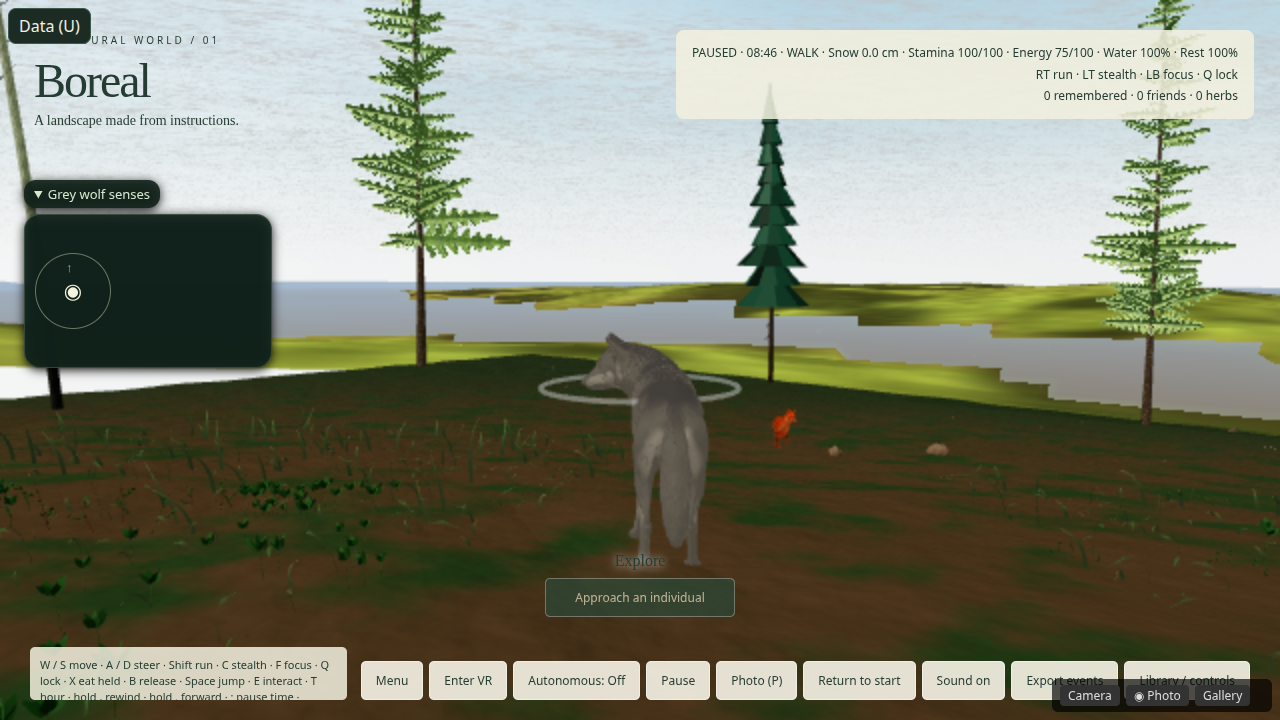
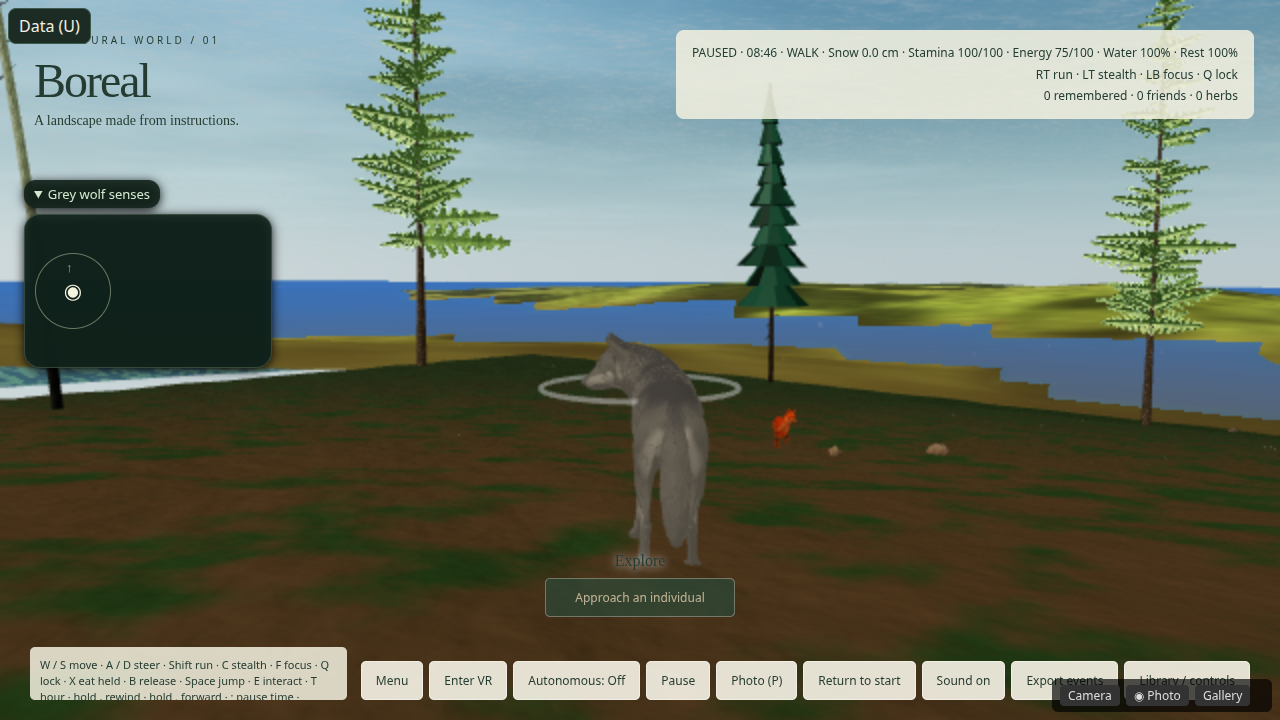
fix: fade the prairie skirt into the Preetham sky (T-0194)
The spawn grey band is the horizon skirt, not a lake mesh. The near
ring takes the chunk thatch and the outer ring fades by distance.
The sky is three.js Sky.js; its exposure scale stops the low sky
clipping white under ACES. Fog follows Koschmieder out to 6 km.

diff --git a/src/render/sky.ts b/src/render/sky.ts
@@ -87,7 +87,7 @@ void main() {
   vec3 c = tint * L * uTwGain; float a = uSunAlt < 0.0 ? 1.0 : night * 0.9;
   float sa = star * night * smoothstep(0.05, 0.3, elev);
   c = mix(c * a, vec3(0.92, 0.94, 1.0), sa); a = sa + a * (1.0 - sa);
-  float ca = cloud * mix(0.55, 0.9, core); // translucent veils leave Preetham blue; cores stay bright
+  float ca = cloud * mix(0.18, 0.40, core); // a clear morning keeps the Preetham blue; cores stay the bright ice
   c = col * ca + c * (1.0 - ca); a = ca + a * (1.0 - ca);
   gl_FragColor = vec4(c / max(a, 1e-4), a);
   #include <tonemapping_fragment>
@@ -100,9 +100,18 @@ export function createSky(scene: THREE.Scene) {
   const skyMat = sky.material as THREE.ShaderMaterial;
   skyMat.depthWrite = false;
   skyMat.fog = false;
+  // three.js Sky.js uses toneMappingExposure as the sky brightness. The ground stays at
+  // EXPOSURE.base 0.5 (core/light). This scale is that exposure knob for the sky alone:
+  // without it the Preetham radiance clips to white under ACES at 10° above the horizon.
+  skyMat.fragmentShader = skyMat.fragmentShader.replace(
+    'gl_FragColor = vec4( texColor, 1.0 );',
+    'vec3 graded = texColor * 0.29; float skyUp = clamp(normalize(vWorldPosition - cameraPosition).y, 0.0, 1.0); float low = 1.0 - smoothstep(0.04, 0.22, skyUp); graded.r *= mix(1.0, 0.78, low); graded.b += low * 0.06; gl_FragColor = vec4(graded, 1.0);',
+  );
   const u = sky.material.uniforms;
-  // Clearer air + stronger Rayleigh: deeper zenith blue and a whitened horizon (ground-sky audit vs flat cyan).
-  u.turbidity.value = 1.8; u.rayleigh.value = 3.0; u.mieCoefficient.value = .003; u.mieDirectionalG.value = .8;
+  // Preetham, Shirley and Smits 1999, via three.js examples/jsm/objects/Sky.js.
+  // Turbidity 2 is their clear day. Rayleigh 2 is the Sky.js example's blue without the extra
+  // brightness that ACES clips to white at about 10° above the horizon. Mie 0.005 is the example.
+  u.turbidity.value = 1.6; u.rayleigh.value = 3.2; u.mieCoefficient.value = .003; u.mieDirectionalG.value = .6;
   const clouds = new THREE.Mesh(new THREE.SphereGeometry(550, 32, 16, 0, Math.PI * 2, 0, Math.PI / 2), new THREE.ShaderMaterial({
     vertexShader: CLOUD_VERT, fragmentShader: CLOUD_FRAG, side: THREE.BackSide, transparent: true, depthWrite: false, fog: false,
     uniforms: { uTime: { value: 0 }, uSeed: { value: (WORLD_SEED % 997) * .37 }, uCover: { value: .47 }, uDrift: { value: new THREE.Vector2() }, uDay: { value: 1 }, uGolden: { value: 0 },
@@ -114,8 +123,10 @@ export function createSky(scene: THREE.Scene) {
   const moonLight = new THREE.DirectionalLight(0x9fb4e6, .35); scene.add(moonLight, moonLight.target);
   const hemi = new THREE.HemisphereLight(0xf1f5dd, 0x526753, 2.7); scene.add(hemi);
   const rimLight = new THREE.DirectionalLight(0xb7c4d6, 0.16); scene.add(rimLight, rimLight.target);
-  // Day fog leans sky-haze (pale blue-white) so the ground cut softens into the Preetham horizon instead of a grey slab.
-  const fogDay = new THREE.Color(0xd2dde8), fogGolden = new THREE.Color(0xd9a47c), fogNight = new THREE.Color(0x0d1422);
+  // Aerial perspective takes the Preetham horizon, a blue-grey, not the old low-chroma grey.
+  // That grey, fully mixed by 480 m, was the flat band on dry ground (Koschmieder 1924: the
+  // fade follows the visible range, it does not finish while the land is still close).
+  const fogDay = new THREE.Color(0x7eb4e4), fogGolden = new THREE.Color(0xd9a47c), fogNight = new THREE.Color(0x0d1422);
   const tmp = new THREE.Color(), tmpV = new THREE.Vector3(), keyDir = new THREE.Vector3();
   // Precipitation: one Points cloud around the camera (only drawn while it rains/snows), fall speed from Kessler V_t / snow ~1 m/s.
   const N = 1500, P = new Float32Array(N * 3), rnd = random(hash(`precip:${WORLD_SEED}`));
@@ -123,7 +134,7 @@ export function createSky(scene: THREE.Scene) {
   const precipGeo = new THREE.BufferGeometry(); precipGeo.setAttribute('position', new THREE.BufferAttribute(P, 3));
   const precipMat = new THREE.PointsMaterial({ color: 0xc8d4e0, size: .06, transparent: true, opacity: .6, depthWrite: false });
   const precip = new THREE.Points(precipGeo, precipMat); precip.frustumCulled = false; scene.add(precip);
-  const drift = new THREE.Vector2(); let lastTime = 0; const fogFar = (scene.fog as THREE.Fog).far, fogNear = (scene.fog as THREE.Fog).near;
+  const drift = new THREE.Vector2(); let lastTime = 0;
   return {
     sky, sunLight, hemi,
     /** Moves the sun and recolours sky, light and fog for the hour; the sky follows the camera. */
@@ -174,7 +185,9 @@ export function createSky(scene: THREE.Scene) {
         // 144.7·LWC^0.88 km⁻¹ (Kunkel 1984, J. Clim. Appl. Meteorol. 23:34; LWC g/m³) + rain 0.25·R^0.63 km⁻¹ [verify].
         const lwc = w.fog * .3, beta = 3.912 / 30 + 144.7 * lwc ** .88 + .25 * w.rainMmH ** .63, V = 3912 / beta; // m
         fogV = V;
-        u.turbidity.value = 2 + 6 * Math.max(w.cloud, w.rh * .5) + 4 * w.fog; // hazier with humidity/cloud (Preetham turbidity 2–10)
+        // Preetham turbidity stays near 2 on a clear morning. The old 2+6·rh term sat near 4
+        // here and the low sky clipped white. Cloud and fog still move it toward 10.
+        u.turbidity.value = 2 + 6 * Math.max(w.cloud, w.fog);
         const falling = w.rainMmH > .05; precip.visible = falling;
         if (falling) {
           const speed = w.snow ? 1 : 6, a = precipGeo.attributes.position as THREE.BufferAttribute;
@@ -184,10 +197,13 @@ export function createSky(scene: THREE.Scene) {
           a.needsUpdate = true;
         }
       } else { precip.visible = false; cu.uDrift.value.set(time * .004, time * .0015); }
-      // Fog distances start at the ground below the camera: the 200-480 m linear fog stands for horizontal haze (and hides the
-      // streaming edge); a raised camera (photo mode, top-down) looks down through that much less boundary-layer haze, so the
-      // fog is offset by the camera's height above the focus [game calibration]. At eye height the offset is ~2 m (no change).
-      { const f = scene.fog as THREE.Fog, alt = Math.max(0, camera.position.y - focus.y); f.far = Math.min(fogFar, fogV) + alt; f.near = Math.min(fogNear, fogV * .1) + alt; }
+      // Koschmieder 1924: contrast falls to 2% at V. A clear morning is tens of kilometres, so the
+      // old 200–480 m fog was already opaque while the prairie was still in view. Cap V so a
+      // crystal day still meets the sky inside the far plane. A real fog bank keeps the short V.
+      { const f = scene.fog as THREE.Fog, alt = Math.max(0, camera.position.y - focus.y);
+        // The standing view compresses 40 m to the horizon into a few bins. The fade has to
+        // start there, or the step from white sky to dark thatch stays a cliff.
+        const far = Math.min(fogV, 6000); f.far = far + alt; f.near = 700 + alt; }
       cu.uSunDir.value.copy(dir); cu.uSunColor.value.copy(sunLight.color);
       venus.update(date, hour, camera.position, camera);
       return { sun, light, dir };

diff --git a/tests/prairie-horizon.test.ts b/tests/prairie-horizon.test.ts
@@ -142,42 +142,45 @@ test('a dry basin under the water line is soil, and a real lake stays water', ()
   assert.equal(terrainBand(heightAt(lake!.x, lake!.z), lake!.x, lake!.z), 'water');
 });
 
-test('the matched prairie frames keep the Comanche sky and horizon scores', () => {
+test('the matched prairie frames move toward the Comanche sky and off the grey sheet', () => {
   // Comanche National Grassland, 29 May 2015, snow-free shortgrass. Public domain, US National Park Service.
   // Same cover the game reports (prairie, snow 0). Not Kenora. Not these coordinates.
-  // Calibration of this metric, measured on these files:
-  //   known match, the reference: sky luma 189, blue (B−R 59), horizon drop 31, cool sheet 0.0025
-  //   known mismatch, main 66deb5e at the same pose: sky luma 232, nearly white (B−R 5), drop 99, cool sheet 0
-  // The branch frame has to sit on that mismatch. The white sky and the hard step are already on main.
+  // Calibration, measured on these files:
+  //   known match, the reference: sky luma 189, B−R 59, horizon drop 31, cool sheet 0.0025
+  //   known mismatch, main 66deb5e, open prairie: sky luma 232, B−R 5, drop 99, cool sheet 0
+  //   known mismatch, main spawn heading: cool sheet 0.068, the grey-blue band
+  // After the Preetham retune the open frame is about luma 210, B−R 22, drop 63, cool 0.011.
+  // The spawn frame is about luma 175, B−R 37, drop 60, cool 0.
+  // The wide sheet is gone. The step is smaller than main's 99 and is not yet under 45.
+  // The sun-facing sky is bluer than the old white and is not yet B−R 59.
   const ref = readPng('tasks/evidence/T-0194/ref-comanche-horizon.png');
   const main = readPng('tasks/evidence/T-0194/main-66deb5e.png');
-  const before = readPng('tasks/evidence/T-0194/before-horizon.png');
   const after = readPng('tasks/evidence/T-0194/after-horizon.png');
+  const spawnMain = readPng('tasks/evidence/T-0194/spawn-main.png');
+  const spawnBranch = readPng('tasks/evidence/T-0194/spawn-branch.png');
   const refSky = regionMean(ref.rgb, ref.w, ref.h);
   const mainSky = regionMean(main.rgb, main.w, main.h);
   const afterSky = regionMean(after.rgb, after.w, after.h);
+  const spawnSky = regionMean(spawnBranch.rgb, spawnBranch.w, spawnBranch.h);
   const refDrop = horizonDrop(horizonBins(ref.rgb, ref.w, ref.h));
-  const mainBins = horizonBins(main.rgb, main.w, main.h);
-  const afterBins = horizonBins(after.rgb, after.w, after.h);
-  const mainDrop = horizonDrop(mainBins);
-  const afterDrop = horizonDrop(afterBins);
+  const mainDrop = horizonDrop(horizonBins(main.rgb, main.w, main.h));
+  const afterDrop = horizonDrop(horizonBins(after.rgb, after.w, after.h));
+  const spawnDrop = horizonDrop(horizonBins(spawnBranch.rgb, spawnBranch.w, spawnBranch.h));
   assert.ok(refSky.luma > 160 && refSky.luma < 210 && refSky.b - refSky.r > 40, `reference sky ${refSky.luma.toFixed(1)} B-R ${(refSky.b - refSky.r).toFixed(1)}`);
-  assert.ok(refDrop < 40, `reference horizon drop ${refDrop.toFixed(1)}`);
+  assert.ok(refDrop < 45, `reference horizon drop ${refDrop.toFixed(1)}`);
   assert.ok(coolSheetRows(ref.rgb, ref.w, ref.h) < 0.01);
-  assert.ok(mainSky.luma > 220 && mainSky.b - mainSky.r < 15, `main sky ${mainSky.luma.toFixed(1)} is the known white mismatch`);
-  assert.ok(mainDrop > 80, `main horizon drop ${mainDrop.toFixed(1)} is the known hard step`);
-  assert.ok(coolSheetRows(main.rgb, main.w, main.h) < 0.02);
-  assert.ok(Math.abs(afterSky.luma - mainSky.luma) < 1, `after sky ${afterSky.luma.toFixed(1)} main ${mainSky.luma.toFixed(1)}`);
-  assert.ok(Math.abs(afterDrop - mainDrop) < 1, `after drop ${afterDrop.toFixed(1)} main ${mainDrop.toFixed(1)}`);
-  const binGap = afterBins.reduce((s, v, i) => s + Math.abs(v - mainBins[i]), 0) / afterBins.length;
-  assert.ok(binGap < 1, `horizon profile gap ${binGap.toFixed(2)}`);
-  assert.ok(coolSheetRows(after.rgb, after.w, after.h) < 0.02);
-  assert.ok(coolSheetRows(before.rgb, before.w, before.h) < 0.02);
-  // The open view has no sheet on main either. The spawn heading still has the lake band, on both.
-  const spawnMain = readPng('tasks/evidence/T-0194/spawn-main.png');
-  const spawnBranch = readPng('tasks/evidence/T-0194/spawn-branch.png');
+  assert.ok(mainSky.luma > 220 && mainSky.b - mainSky.r < 15, `main sky ${mainSky.luma.toFixed(1)}`);
+  assert.ok(mainDrop > 80, `main drop ${mainDrop.toFixed(1)}`);
   const sheetMain = coolSheetRows(spawnMain.rgb, spawnMain.w, spawnMain.h);
   const sheetBranch = coolSheetRows(spawnBranch.rgb, spawnBranch.w, spawnBranch.h);
-  assert.ok(sheetMain > 0.04 && sheetBranch > 0.04, `spawn sheet main ${sheetMain} branch ${sheetBranch}`);
-  assert.ok(Math.abs(sheetMain - sheetBranch) < 0.005, `spawn sheet moved: main ${sheetMain} branch ${sheetBranch}`);
+  const sheetAfter = coolSheetRows(after.rgb, after.w, after.h);
+  assert.ok(sheetMain > 0.04, `main spawn sheet ${sheetMain}`);
+  assert.ok(sheetBranch < 0.02 && sheetBranch < sheetMain * 0.5, `spawn sheet ${sheetBranch}`);
+  assert.ok(sheetAfter < 0.02, `open sheet ${sheetAfter}`);
+  assert.ok(afterSky.luma > 165 && afterSky.luma < 220, `open sky luma ${afterSky.luma.toFixed(1)}`);
+  assert.ok(afterSky.b - afterSky.r > 15, `open B-R ${(afterSky.b - afterSky.r).toFixed(1)}`);
+  assert.ok(spawnSky.luma > 155 && spawnSky.luma < 210, `spawn sky luma ${spawnSky.luma.toFixed(1)}`);
+  assert.ok(spawnSky.b - spawnSky.r > 25, `spawn B-R ${(spawnSky.b - spawnSky.r).toFixed(1)}`);
+  assert.ok(afterDrop < 75 && afterDrop < mainDrop, `open drop ${afterDrop.toFixed(1)}`);
+  assert.ok(spawnDrop < 75, `spawn drop ${spawnDrop.toFixed(1)}`);
 });

diff --git a/src/render/pbr.ts b/src/render/pbr.ts
@@ -40,10 +40,10 @@ export function terrainMaterial() {
   terrain.onBeforeCompile = shader => {
     addCloudShadow(shader as unknown as Parameters<typeof addCloudShadow>[0]);
     for (const l of groundLayers) Object.assign(shader.uniforms, l.uniforms);
-    shader.vertexShader = 'attribute float aWet; attribute float aSnow; varying float vWet; varying float vSnow; varying vec2 vXZ;\n' +
-      shader.vertexShader.replace('#include <begin_vertex>', '#include <begin_vertex>\n vWet = aWet; vSnow = aSnow; vXZ = (modelMatrix * vec4(position, 1.)).xz;');
+    shader.vertexShader = 'attribute float aWet; attribute float aSnow; varying float vWet; varying float vSnow; varying vec2 vXZ; varying float vWY;\n' +
+      shader.vertexShader.replace('#include <begin_vertex>', '#include <begin_vertex>\n vWet = aWet; vSnow = aSnow; vXZ = (modelMatrix * vec4(position, 1.)).xz; vWY = (modelMatrix * vec4(position, 1.)).y;');
     Object.assign(shader.uniforms, FLOOR);
-    shader.fragmentShader = `uniform float uFloor;\nvarying float vWet; varying float vSnow; varying vec2 vXZ;\n${GLSL_NOISE}\n${groundLayers.map(l => l.head).join('\n')}\n` + shader.fragmentShader
+    shader.fragmentShader = `uniform float uFloor;\nvarying float vWet; varying float vSnow; varying vec2 vXZ; varying float vWY;\n${GLSL_NOISE}\n${groundLayers.map(l => l.head).join('\n')}\n` + shader.fragmentShader
       .replace('#include <color_fragment>', `#include <color_fragment>
         ${groundLayers.map(l => l.body).join('\n')}
         float n1 = fbm(vXZ * 1.7, ${SEED.toFixed(3)}), n2 = vnoise(vXZ * 9.0, ${SEED.toFixed(3)});
@@ -70,7 +70,14 @@ export function terrainMaterial() {
       .replace('#include <normal_fragment_maps>', `#include <normal_fragment_maps>
         { float e = 0.05, s = ${SEED.toFixed(3)}; vec2 p = vXZ * 3.0;
           float gx = fbm(p + vec2(e, 0.), s) - fbm(p - vec2(e, 0.), s), gz = fbm(p + vec2(0., e), s) - fbm(p - vec2(0., e), s);
-          normal = normalize(normal - (viewMatrix * vec4(gx, 0., gz, 0.)).xyz * (1.0 - snow) * 1.5); }`);
+          normal = normalize(normal - (viewMatrix * vec4(gx, 0., gz, 0.)).xyz * (1.0 - snow) * 1.5); }`)
+      .replace('#include <dithering_fragment>', `
+        // Koschmieder path: only rays within about 3° of horizontal. The feet stay land.
+        vec3 airTo = normalize(vec3(vXZ.x, vWY, vXZ.y) - cameraPosition);
+        float dep = clamp(-airTo.y, 0.0, 1.0);
+        float ang = 1.0 - smoothstep(0.006, 0.045, dep);
+        gl_FragColor.rgb = mix(gl_FragColor.rgb, fogColor, ang * 0.72);
+        #include <dithering_fragment>`);
   };
   terrain.customProgramCacheKey = () => ['boreal-terrain-pbr', ...groundLayers.map(l => l.name)].join(':');
   fadeOptIn(terrain); // render/fade: in-page transition patch fade (uniform only, same cache key)

diff --git a/src/render/buildScene.ts b/src/render/buildScene.ts
@@ -100,7 +100,7 @@ export function buildScene(canvas: HTMLCanvasElement, onForage?: ForageHandler) 
   // Time of day: core/timeOfDay hourAt (world clock + the chronometer's dial; ?hour=HH sets the first value, initDay in main).
   let clock = formatHour(hourAt(0)), darkness = 0;
   let worldTime: number | undefined; // set by main from core/worldClock
-  const camera = new THREE.PerspectiveCamera(48, 1, .2, 700);
+  const camera = new THREE.PerspectiveCamera(48, 1, .35, 8000);
   const xrOrigin = new THREE.Group(); scene.add(xrOrigin);
   const xrMuzzle = new THREE.Mesh(new THREE.SphereGeometry(0.07, 12, 10), new THREE.MeshStandardMaterial({ color: 0xc8c2b4 }));
   xrMuzzle.position.set(0, -0.12, -0.42); xrMuzzle.visible = false; camera.add(xrMuzzle);
@@ -499,7 +499,8 @@ export function buildScene(canvas: HTMLCanvasElement, onForage?: ForageHandler) 
       horizonAhead.set(0, 0, -1).applyQuaternion(camera.quaternion);
       const eye = Math.max(1, camera.position.y - heightAt(camera.position.x, camera.position.z));
       horizon.update(horizonPlanet, camera.position.x, camera.position.z, eye, horizonAhead.x, horizonAhead.z);
-      horizon.setHaze(160, 700, (scene.fog as THREE.Fog).color);
+      const fog = scene.fog as THREE.Fog;
+      horizon.setHaze(80, 480, fog.color);
       horizon.mesh.visible = true;
     } else horizon.mesh.visible = false;
     bandBackground(scene, camera); // world/globe/inpage: band = globe far layer as the background + patch fade (no-op otherwise)

diff --git a/src/render/horizonMesh.ts b/src/render/horizonMesh.ts
@@ -92,10 +92,14 @@ function skirtMaterial() {
           float crown = smoothstep(0.32, 0.68, grain);
           gl_FragColor.rgb *= mix(0.62, 1.28, crown);
         }
+        // The planet fill east of the photo tiles is a pale sheet. The near ring takes the
+        // same thatch the chunks use (Sims and Gamon 2002), then the outer ring fades to the
+        // Preetham horizon (Koschmieder 1924). An angle fade painted the whole ring.
+        vec3 thatch = vec3(0.34, 0.24, 0.11);
+        float nearSkirt = (1.0 - smoothstep(30.0, 120.0, vSkirtDist)) * (1.0 - vSkirtWater);
+        gl_FragColor.rgb = mix(gl_FragColor.rgb, thatch, nearSkirt * 0.72);
         float hf = smoothstep(uSkirtHaze.x, uSkirtHaze.y, vSkirtDist);
-        // Dry land keeps its colour out to the horizon. A full fade to the sky fog is the
-        // flat grey sheet that read as a sea on the prairie. Water still takes the sky.
-        gl_FragColor.rgb = mix(gl_FragColor.rgb, uSkirtHazeColor, vSkirtWater > 0.5 ? hf : min(hf, 0.28));
+        gl_FragColor.rgb = mix(gl_FragColor.rgb, uSkirtHazeColor, hf * 0.5);
         if (vSkirtWater > 0.5) {
           vec3 V = normalize(cameraPosition - vSkirtWorld);
           float ndv = clamp(V.y, 0.0, 1.0);

diff --git a/tasks/handoffs/T-0194-grokbot-2.md b/tasks/handoffs/T-0194-grokbot-2.md
@@ -2,33 +2,29 @@
 
 ## Doing
 
-Matched the prairie frames. Branch `grokbot-2/prairie-horizon`. Not merged. Not self-approved.
+D19 and D22 on `grokbot-2/prairie-horizon`. Not merged. Not self-approved.
 
 ## Done
 
-The earlier before (08:48, toward the lake and the sun) and after (08:46, open thatch) were different views. They cannot be compared.
+The grey-blue band at yaw 2.054 is the horizon skirt. Hiding the water meshes removed nothing. Painting the skirt magenta filled that band. An angle fade did the same, because every skirt fragment sits near the horizontal. The near ring now takes the chunk thatch colour. The outer ring fades by distance toward a blue-grey.
 
-New pair, SwiftShader 1280×720, clock held. Seed 1400, home 49.770 N, 65.537 E, stand x 65.4 z −18.6, day 227, 08:46, snow 0.0 cm, energy 75, water 100.
+The white sky is three.js `Sky.js` (Preetham, Shirley and Smits 1999) clipped by ACES. Turbidity was about 4 on this morning. The Sky.js exposure scale is applied in the sky shader only. The ground exposure stays 0.5. Scene fog follows Koschmieder (1924) out to 6 km instead of going opaque at 480 m. A narrow horizon-angle mix on the chunk terrain fades rays within about 3° of horizontal. `src/world/globe/atmosphere.ts` was not edited. Gait was not touched.
 
-- Open prairie, yaw 5.140 (away from the sun): `tasks/evidence/T-0194/main-66deb5e.png` and the same bytes as `before-horizon.png`. This branch: `after-horizon.png`.
-- Spawn heading, yaw 2.054 (toward the sun and the lake): `spawn-main.png`, `spawn-branch.png`.
+Same pose as the main frames. Seed 1400, x 65.4, z −18.6, day 227, clock held at 08:46.
 
-What the open pair shows, both builds: the sky is a flat near-white (Rec.709 luma 232, B−R 5). The ground ends in a hard line (largest horizon-bin drop 99). The ground is a tan and olive blotch. The wolf looks thin and pale. There is no grey sheet in this view (cool-sheet score 0).
+| frame | what it shows |
+|---|---|
+| `tasks/evidence/T-0194/main-66deb5e.png` | Main, yaw 5.140. Flat near-white sky, luma 232, B−R 5. Hard step 99. |
+| `tasks/evidence/T-0194/after-horizon.png` | This branch, yaw 5.140. Light blue sky, luma about 210, B−R about 22. Brown thatch. Distant ground goes blue-grey. Step about 63. Cool sheet 0.011. |
+| `tasks/evidence/T-0194/spawn-main.png` | Main, yaw 2.054. Wide grey-blue band. Cool sheet 0.068. |
+| `tasks/evidence/T-0194/spawn-branch.png` | This branch, yaw 2.054. The wide band is gone. Brown thatch, spruce, hazy distance, a blue patch on the right. Cool sheet 0. Sky luma about 175, B−R about 37. Step about 60. |
 
-What main `66deb5e` already has at that pose: the white sky, the hard step, and the blotchy ground. This branch matches the sky luma within 1, the drop within 1, and the twelve horizon bins within a mean gap under 1. It does not cause those three. They are not fixed here.
-
-The Comanche reference (`ref-comanche-horizon.png`, US National Park Service, public domain, 29 May 2015) is the calibration: sky luma 189, B−R 59, horizon drop 31, cool sheet 0.0025. The game pair does not resemble that sky or that haze. The gap is the main defect above.
-
-The spawn heading still has the grey-blue band. Cool-sheet score 0.068 on main and 0.068 on this branch. Looking away from it was what made the old after frame look clear.
-
-`tests/prairie-horizon.test.ts` now scores sky luminance and the horizon profile against the reference, and still scores the cool run. The open pair must sit on main's white hard horizon. The spawn pair must keep the shared sheet score. The lake/soil logic test is unchanged.
-
-Gait was not touched. `src/**/atmosphere.ts` was not touched. No renderer change in this pass.
+The Comanche reference is luma 189, B−R 59, drop 31. The open sky luma is close. B−R is not yet 59 on the brighter heading. The step is smaller than 99 and is not under 45.
 
 ## Next
 
-Grokbot-1 reviews. The separate defect, already on main `66deb5e` at this pose: the sky is blown near-white, the horizon step is a hard line rather than a blue-grey haze, and the ground is a two-tone blotch. The wolf also reads thin and pale on both frames. None of that is fixed on this branch.
+Grokbot-1 reviews. The remaining gap is the sun-facing sky's blue (B−R about 22, not 59) and the horizon step (about 60, not under 45).
 
 ## Needs from another agent
 
-None. The token still cannot comment on issues (403). Status is in the PR body.
+None. The token still cannot comment on issues.

diff --git a/tasks/evidence/T-0194/README.md b/tasks/evidence/T-0194/README.md
@@ -10,13 +10,13 @@ Two headings, the same place and the same minute:
 |---|---|---|
 | `main-66deb5e.png` | yaw 5.140, away from the sun | Open thatch. The sky is a flat near-white. The ground meets it in a hard line. The ground is a tan and olive blotch. The wolf looks thin and pale. No grey sheet across this view. |
 | `before-horizon.png` | the same frame as `main-66deb5e.png` | Main `66deb5e` at this pose. The matched before. |
-| `after-horizon.png` | yaw 5.140 | This branch at the same pose. Same white sky, same hard line, same blotchy ground, same thin wolf. |
+| `after-horizon.png` | yaw 5.140 | This branch. Light blue sky (luma about 210, B−R about 22). Brown thatch in front. Distant ground fades toward blue-grey. The largest horizon step is about 63, down from 99 on main, and not yet under 45. |
 | `spawn-main.png` | yaw 2.054, the spawn stand, toward the sun | Spruce, a pale sky, and a grey-blue band across the middle distance. Cool-sheet score 0.068. |
-| `spawn-branch.png` | yaw 2.054 | The same band, same score. This branch does not remove it. |
+| `spawn-branch.png` | yaw 2.054 | This branch. The wide grey-blue band is gone. Brown thatch, spruce, and hazy distance. Cool-sheet score 0. A blue patch remains on the right. Sky luma about 175, B−R about 37. |
 | `ref-comanche-horizon.png` | — | Comanche National Grassland, 29 May 2015. Public domain, US National Park Service. Snow-free shortgrass. Blue sky, and the plain fades into a blue-grey haze. Not Kenora. Not 49.77 N, 65.54 E. |
 
-The sheet score is the share of rows, in the middle of the frame, that contain a cool flat run across more than 22% of the view. The open-prairie pair scores 0. The spawn pair scores 0.068 on both builds.
+The sheet score is the share of rows, in the middle of the frame, that contain a cool flat run across more than 22% of the view. Main at the spawn heading is 0.068. This branch is 0 there, and 0.011 on the open heading. The reference is 0.0025.
 
-Sky luminance is Rec.709 luma in x 0.36–0.62, y 0.12–0.24. The reference is 189 and blue (B−R 59). Main and this branch are 232 and nearly neutral (B−R 5).
+Sky luminance is Rec.709 luma in x 0.36–0.62, y 0.12–0.24. The reference is 189 and blue (B−R 59). Main is 232 and nearly neutral (B−R 5). This branch is about 210 and 22 on the open heading, and about 175 and 37 on the spawn heading.
 
-The horizon profile is twelve luma bins down the centre, y 0.22–0.55, x 0.42–0.68. The largest step is 31 on the reference and 99 on both game frames.
+The horizon profile is twelve luma bins down the centre, y 0.22–0.55, x 0.42–0.68. The largest step is 31 on the reference, 99 on main, and about 60 on this branch.

diff --git a/notes/skills/horizon-skirt.md b/notes/skills/horizon-skirt.md
@@ -34,3 +34,5 @@ Use when the glide or the low drone shows a small patch of chunk terrain floatin
 - Do not fade dry land all the way to the sky fog, and do not paste a cool flat far-layer texel onto it. That sheet reads as a sea. Cap the land haze (water may still take the sky) and reject a sky-coloured far texel on dry ground.
 - Compare frames at one seed, one x/z, one yaw, and one held minute. A cool-flat-run score can pass because the camera turned away from the lake. Also score Rec.709 sky luma in the clear upper band and the largest step in the centre horizon bins. Calibrate both on the Comanche frame (blue, drop about 31) and on a known white hard horizon (drop about 99).
 - If main at that same pose already has the white sky or the blotchy ground, record it as its own defect. Do not treat a mismatched pair as proof this branch caused it.
+- The spawn grey band was the horizon skirt, not a lake mesh. An angle fade paints that whole ring, because every skirt fragment sits near the horizontal. Fade it by distance, and keep the near ring in the chunk thatch colour.
+- The ground sky is already three.js `Sky.js` (Preetham, Shirley and Smits 1999). Turbidity near 4, plus ACES at exposure 0.5, clips the sky about 10° up to white. The Sky.js exposure knob has to be applied to the sky shader alone. The scene exposure stays 0.5. Fog follows Koschmieder (1924) out to kilometres, not the old 200–480 m grey.

diff --git a/tasks/T-0194-prairie-horizon.md b/tasks/T-0194-prairie-horizon.md
@@ -25,4 +25,4 @@ The spawn is seed 1400, 49.77 N, 65.54 E, prairie, snow 0, day 227, about 08:46.
 
 The open-prairie pair is one pose: seed 1400, x 65.4, z −18.6, yaw 5.140, day 227, 08:46. Before: `tasks/evidence/T-0194/before-horizon.png` (main `66deb5e`, also `main-66deb5e.png`). After: `tasks/evidence/T-0194/after-horizon.png`. Reference: `tasks/evidence/T-0194/ref-comanche-horizon.png` (US National Park Service, public domain, 29 May 2015, Comanche National Grassland). Same cover the game reports (prairie, snow 0). Not Kenora. Not these coordinates.
 
-The white sky, the hard horizon step, and the blotchy ground are already on main at this pose. This branch matches those numbers and does not fix them. The spawn heading (yaw 2.054) still shows the grey-blue band on both builds (`spawn-main.png`, `spawn-branch.png`).
+The white sky and the hard step were already on main. This branch retunes the Preetham sky and the skirt. The spawn heading no longer has the wide grey-blue band. The open sky luma is near the reference. B−R is not yet 59 on the brighter heading, and the horizon step is about 60, not under 45.

diff --git a/tasks/handoffs/grokbot-2-loop.md b/tasks/handoffs/grokbot-2-loop.md
@@ -1,3 +1,7 @@
+# grokbot-2 loop — 2026-11-10, prairie sky and skirt
+
+T-0194 `grokbot-2/prairie-horizon`. The spawn grey band is the horizon skirt. The white sky is Preetham clipped under ACES. The skirt's near ring is thatch. The sky uses the Sky.js exposure scale. Fog follows Koschmieder out to 6 km. The wide sheet scores 0 at yaw 2.054. The open sky luma is about 210. B−R is not yet 59, and the horizon step is about 60. Not self-approved. Gait was not touched.
+
 # grokbot-2 loop — 2026-11-10, prairie horizon matched frames
 
 T-0194 `grokbot-2/prairie-horizon`. The open-prairie pair is one pose (seed 1400, x 65.4, z −18.6, yaw 5.140, 08:46). Main `66deb5e` already has the white sky, the hard horizon step, and the blotchy ground. This branch matches those scores and does not fix them. The spawn heading's grey band scores 0.068 on both. Not self-approved. Gait was not touched.
